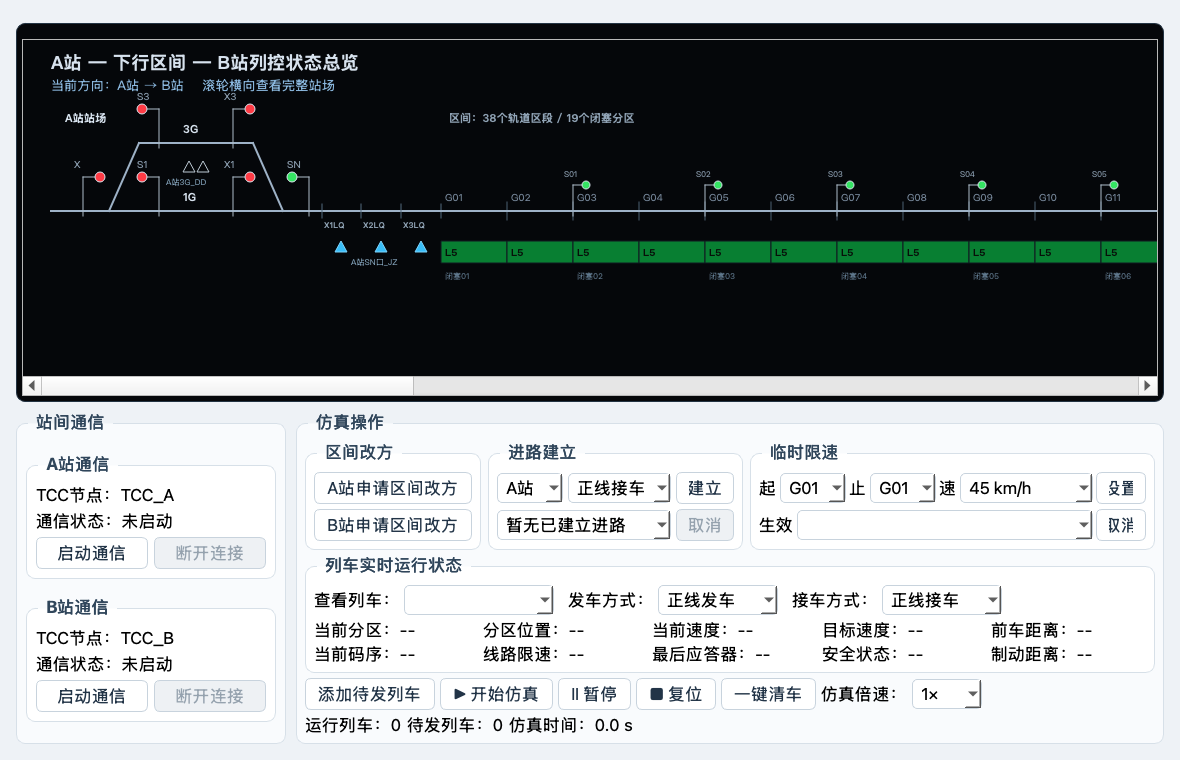
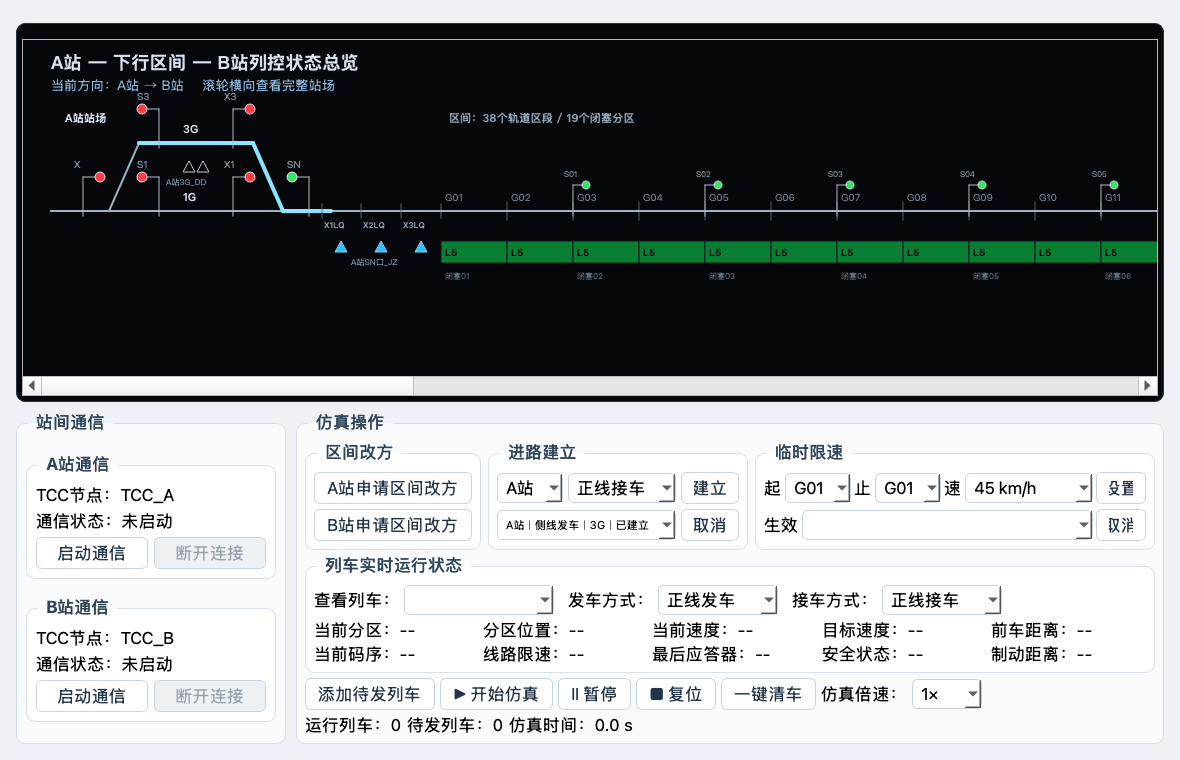
docs: complete route management phase

diff --git a/tests/test_route_integration.py b/tests/test_route_integration.py
@@ -25,6 +25,19 @@ class RouteTrainIntegrationTest(unittest.TestCase):
         self.assertEqual(train.status, "WAITING")
         self.assertIsNone(train.current_track)
 
+    def test_stopped_train_still_occupies_section_for_following_train(self):
+        leading = self.trains.create_train()
+        leading.enter_track("G02")
+        leading.status = "STOPPED"
+        following = self.trains.create_train()
+        following.enter_track("G01")
+        following.position = self.trains.default_track_length + 1
+
+        self.trains.handle_track_transition(following)
+
+        self.assertEqual(following.current_track, "G01")
+        self.assertEqual(following.status, "STOPPED")
+
     def test_main_train_does_not_use_side_departure_route(self):
         self.routes.establish_route("A", RouteType.SIDE_DEPART)
         train = self.trains.add_waiting_train("MAIN")
@@ -172,6 +185,16 @@ class RouteDirectionIntegrationTest(unittest.TestCase):
 
         self.assertIsNone(message)
         self.assertEqual(reason, "本站未建立发车进路")
+        self.assertEqual(simulation.get_direction(), "A_TO_B")
+
+    def test_invalid_target_direction_is_denied(self):
+        routes = RouteService()
+        simulation, manager = self.make_manager("A", routes)
+
+        approved, reason = manager.evaluate_request("INVALID")
+
+        self.assertFalse(approved)
+        self.assertEqual(reason, "非法目标方向")
         self.assertEqual(simulation.get_direction(), "A_TO_B")
 
     def test_direction_request_is_denied_when_remote_departure_route_exists(self):

diff --git a/ui/main_window.py b/ui/main_window.py
@@ -275,6 +275,7 @@ class MainWindow(QMainWindow):
         self.active_route_combo = QComboBox()
         self.active_route_combo.setObjectName("active_route")
         self.active_route_combo.setToolTip("选择需要取消的已建立进路")
+        self.active_route_combo.setStyleSheet("font-size: 11px;")
         route_layout.addWidget(self.active_route_combo, 1, 0, 1, 2)
 
         self.route_cancel_button = QPushButton("取消")
@@ -843,6 +844,11 @@ class MainWindow(QMainWindow):
         )
         self.route_cancel_button.setEnabled(
             route is not None and route.state == RouteState.ESTABLISHED
+        )
+        self.active_route_combo.setToolTip(
+            self.active_route_combo.currentText()
+            if route is not None
+            else "选择需要取消的已建立进路"
         )
 
     def clear_all_trains(self):

diff --git a/tests/test_route_service.py b/tests/test_route_service.py
@@ -96,6 +96,16 @@ class RouteServiceTest(unittest.TestCase):
         self.assertTrue(service.release_route(route.route_id))
         self.assertEqual(service.active_routes(), [])
 
+    def test_locked_route_cannot_be_rebound_to_another_train(self):
+        service = RouteService()
+        route = service.establish_route("A", RouteType.MAIN_DEPART)
+        service.lock_route(route.route_id, "T001")
+
+        with self.assertRaisesRegex(ValueError, "进路已被其他列车锁闭"):
+            service.lock_route(route.route_id, "T002")
+
+        self.assertEqual(route.train_id, "T001")
+
     def test_clear_all_removes_routes_and_resets_sequence(self):
         service = RouteService()
         service.establish_route("A", RouteType.MAIN_DEPART)

diff --git a/services/route_service.py b/services/route_service.py
@@ -60,6 +60,8 @@ class RouteService:
         route = self._routes.get(route_id)
         if route is None:
             raise ValueError("进路不存在")
+        if route.state == RouteState.LOCKED and route.train_id != train_id:
+            raise ValueError("进路已被其他列车锁闭")
         route.state = RouteState.LOCKED
         route.train_id = train_id
         return route

diff --git a/services/direction_manager.py b/services/direction_manager.py
@@ -128,6 +128,11 @@ class DirectionManager:
         (False, 原因) 表示拒绝。
         """
 
+        if target_direction not in ("A_TO_B", "B_TO_A"):
+            self.status = self.DENIED
+            self.reason = "非法目标方向"
+            return False, self.reason
+
         if not self.simulation.can_change_direction():
 
             self.status = self.DENIED

diff --git a/services/train_service.py b/services/train_service.py
@@ -99,7 +99,7 @@ class TrainService:
         for train in self.trains.values():
 
             if (
-                train.status == "RUNNING"
+                train.status in ("RUNNING", "STOPPED")
                 and train.current_track == track_code
             ):
                 return True

diff --git a/docs/phases/PHASE-03.md b/docs/phases/PHASE-03.md
@@ -1,0 +1,63 @@
+# 阶段 3 技术说明：进路建立、取消与联动
+
+## 目标与范围
+
+本阶段依据 Word 文档中的接发车、编码、点灯、应答器和改方约束，实现 A/B 两站的四类进路，并把进路状态接入列车、信号、区间边界编码、有源应答器和区间改方。日志模块仍不在当前范围内。
+
+## 领域模型与唯一状态源
+
+`RouteService` 是进路状态的唯一写入点。界面、绘图、列车、信号和改方模块只通过服务接口读写，不各自保存第二份业务状态。
+
+| 进路类型 | 显示名称 | 股道 | 用途 |
+|---|---|---|---|
+| `MAIN_RECEIVE` | 正线接车 | 1G | 接车 |
+| `SIDE_RECEIVE` | 侧线接车 | 3G | 接车 |
+| `MAIN_DEPART` | 正线发车 | 1G | 发车 |
+| `SIDE_DEPART` | 侧线发车 | 3G | 发车 |
+
+每条进路保存车站、类型、股道、接发属性、状态、绑定列车和建立顺序。状态为 `ESTABLISHED` 或 `LOCKED`。同一车站同时只允许一条活动进路；A、B 两站不得同时建立对向发车进路；一端发车和对端接车可以并存。
+
+## 建立、取消和锁闭生命周期
+
+1. 用户在“进路建立”区域选择车站和四类进路之一。
+2. 服务校验同站冲突和对向发车冲突后建立进路。
+3. 列车只有取得当前方向发车站、对应 1G/3G 的发车进路才能进入区间。
+4. 列车进入入口区段时进路锁闭并绑定列车；锁闭后人工取消按钮禁用，服务层也拒绝直接取消。
+5. 列车由入口区段进入第二区段后，发车进路自动释放。
+6. 列车进入运行方向末区段时，匹配的目的站接车进路锁闭；列车到站后自动释放。
+7. “一键清车”和“复位”均清除活动进路并刷新 UI。
+
+列车保存独立的发车方式和接车方式：正线映射 1G，侧线映射 3G。默认接车方式与发车方式一致，界面可以分别选择。
+
+## 信号、编码和应答器联动
+
+- 发车信号开放必须同时满足：方向允许、入口区段空闲、存在匹配发车进路。
+- 正线发车按入口前方码序映射灯色；侧线 18 号及以上场景按 Word 示例显示 `L灯`。
+- 目的端存在接车进路时，区间末端编码把停车目标向站内延伸一个单元；无接车进路时末端保持 `HU`。
+- 未通信时，有源应答器固定返回 `ETCS-254`。
+- 通信建立后，无有效进路返回关闭信号默认包；正/侧线接发车按进路类型加入 `ETCS-27`、`ETCS-68`、`CTCS-1` 等组合。
+- 只有存在实际生效的临时限速时才追加 `ETCS-44(CTCS-2)`。
+
+## 区间改方联动
+
+申请方必须已有本站发车进路；被申请站存在发车进路时拒绝改方。原有全区间空闲、无列车和信号关闭条件继续生效。拒绝只更新改方状态和原因，不删除已建立进路；合法申请完成后两端方向一致。
+
+## UI 与 2D 表现
+
+操作区顶部依次为“区间改方”“进路建立”“临时限速”，伸缩比例严格为 `1:2:4`。进路区域采用两行紧凑布局：第一行选择车站和进路类型并建立，第二行选择活动进路并取消。活动进路文字格式为 `A站｜正线发车｜1G｜已建立`，锁闭后显示“已锁闭”。
+
+2D 连续长图用浅青色 4 px 线条高亮进路：正线贴合 1G，侧线贴合 3G 和区间侧咽喉。A/B 站位置镜像，信号机物理方向不随运行方向或接发属性翻转；信号、应答器和文字最后绘制，避免被高亮遮挡。
+
+![阶段 3 进路界面](../images/phase-03-route-ui.png)
+
+## 验证结果
+
+- 自动测试：47 项全部通过。
+- 语法检查：进路、列车、信号、改方和 UI 关键模块全部通过 `py_compile`。
+- 业务脚本：A 正线发车、A 侧线发车、B 正线接车、B 侧线接车、未进入取消、进入后拒绝取消、驶过释放、无进路禁发、冲突改方拒绝和合法改方成功全部通过。
+- 视觉检查：1440×900 与 1180×760 均无控件裁切或重叠；活动进路可读；站场高亮不遮挡设备。
+- 最终自审：补充停车列车仍占用区段、非法改方目标拒绝、锁闭进路不可被其他列车重绑三项回归测试。
+
+## 后续边界
+
+本阶段完成的是课程仿真所需的进路状态和跨模块联动。道岔逐组定位/反位模型、完整站内轨道占用、Word 全部场景的码序表驱动和 7.6 特殊演示模式仍按总方案后续阶段实施，不在本阶段伪造。

diff --git a/PROGRESS.md b/PROGRESS.md
@@ -7,8 +7,8 @@
 - 当前分支：`main`
 - 唯一需求依据：`/Users/zhu/Desktop/TCC整理_可编辑版.docx`
 - 总方案：`docs/TCC功能仿真实现方案.md`
-- 当前阶段：阶段 3——进路建立与取消
-- 当前原子任务：执行阶段 3 任务 7——综合验收、文档与最终审查
+- 当前阶段：阶段 3——进路建立与取消（已完成）
+- 当前原子任务：返回阶段 2，建立 Word 7.1 唯一拓扑配置并迁移绘图数据源
 - 事件记录模块：不在本项目当前范围
 
 ## 阶段看板
@@ -18,7 +18,7 @@
 | 0 需求冻结与可恢复机制 | 已完成 | 方案和本文件已建立 | `8ac9a39` 已推送 |
 | 1 UI 骨架与 7.1 静态总图 | 已完成并修订 | 站场精细化合同及连续长图双端截图通过 | 随本次站场修订提交推送 |
 | 2 拓扑与领域模型 | 进行中 | 已建立 38 区段/19 闭塞分区兼容模型 | 待配置化 |
-| 3 进路与列车初始放置 | 进行中 | 任务 6 区间改方进路条件通过 44 项回归 | 任务 1～5 已推送，任务 6 待提交 |
+| 3 进路与列车初始放置 | 已完成 | 47 项回归、语法检查、11 场景业务脚本和双尺寸截图通过 | 任务 1～6 已推送，任务 7 随本提交 |
 | 4 编码与信号联动 | 未开始 | — | — |
 | 5 列车运行与 7.6 模式 | 未开始 | — | — |
 | 6 有源应答器与信息包 | 未开始 | — | — |
@@ -59,12 +59,14 @@
 - 已完成阶段 3 任务 5：信号开放增加方向、入口空闲和匹配发车进路门控；正线按前方码显示，侧线 18 号及以上场景显示 `L灯`。
 - 匹配接车进路会把区间边界目标向站内延伸一个单元；有源应答器按点击站点和进路类型生成正/侧线接发车信息包，实际存在临时限速时才追加 `ETCS-44(CTCS-2)`。
 - 已完成阶段 3 任务 6：改方申请要求申请站已有发车进路，被申请站存在发车进路时拒绝；拒绝不删除进路，合法条件下两端方向同步切换。
+- 已完成阶段 3 任务 7：全量测试、语法检查、11 个关键业务场景和 1440×900/1180×760 截图验收通过；自审补强停车列车占用、非法改方目标和锁闭进路防重绑三项安全边界。
+- 已建立 `docs/phases/PHASE-03.md`，并同步项目内与桌面根目录的总方案副本。
 
 ## 最近验证
 
 ```text
 .venv/bin/python -m unittest discover -s tests -v
-Ran 44 tests
+Ran 47 tests
 OK
 ```
 
@@ -87,4 +89,4 @@ OK
 ## 待确认或已知问题
 
 - 当前 38 区段已进入运行和限速兼容模型，但设备名称及连接关系仍需在阶段 2 配置化。
-- 当前应答器弹窗只完成点击入口和通信中断默认包；完整进路相关包组合仍由阶段 6 完成。
+- 当前应答器弹窗已接入站点进路类型、通信状态和临时限速；阶段 6 仍需补齐 Word 7.4 的全部应答器位置与关键字段明细。

diff --git a/docs/TCC功能仿真实现方案.md b/docs/TCC功能仿真实现方案.md
@@ -208,13 +208,15 @@ Codex 提示词：
 
 > 执行阶段 2。把 Word 7.1 站场建立为唯一拓扑配置，先写设备唯一性、连接对称性、数量和绘图映射测试，再迁移画面。不要实现进路和编码。完成技术说明、进度更新、提交和推送。
 
-### 阶段 3：进路与列车初始放置
+### 阶段 3：进路与列车初始放置（已完成：2026-10-10）
 
 目标：实现 Word 7.2、7.7 的四类进路和站内放车。
 
 实施：建立进路状态机和冲突表；按钮选择站别、进路类型和股道；可取消未占用进路；列车可初始放在 1G/3G，占用区段变红；无进路时禁止发车；点击列车显示当前区段速度。
 
 验收：四类进路均可建立/取消；冲突和占用时拒绝；无进路列车不能移动。
+
+完成结果：已实现四类进路、同站/对向发车冲突、未锁闭取消、列车进入后锁闭、驶过自动释放、无进路禁发、正/侧线独立接发选择，以及信号、区间边界编码、有源应答器和改方联动。顶部操作区按 `1:2:4` 布局，2D 站场显示贴轨进路高亮。详细记录见 `docs/phases/PHASE-03.md`，47 项自动测试与双尺寸截图验收通过。
 
 Codex 提示词：
 
